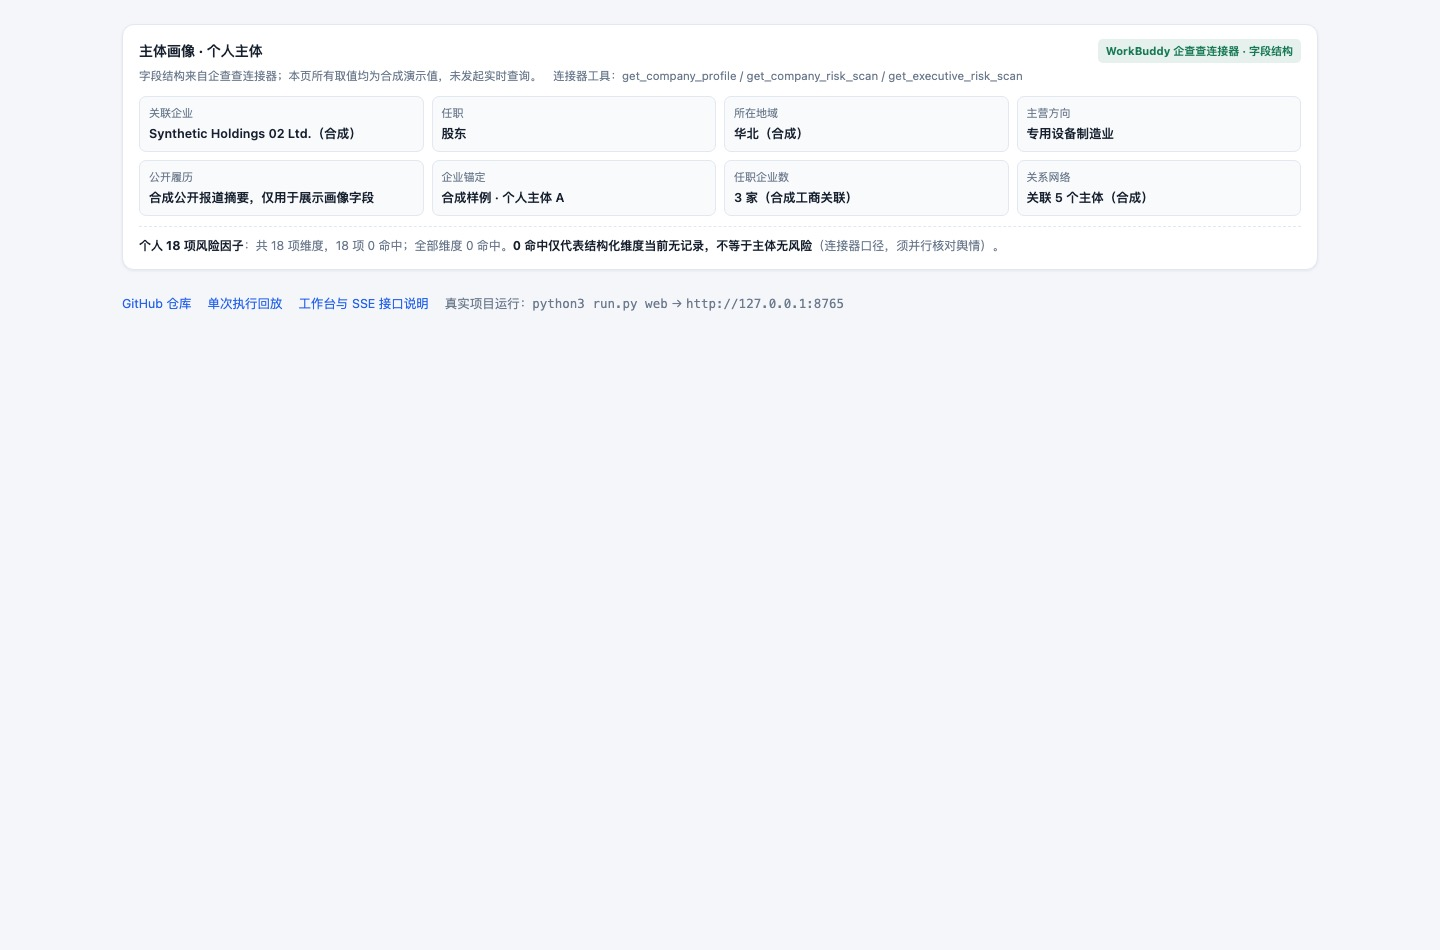
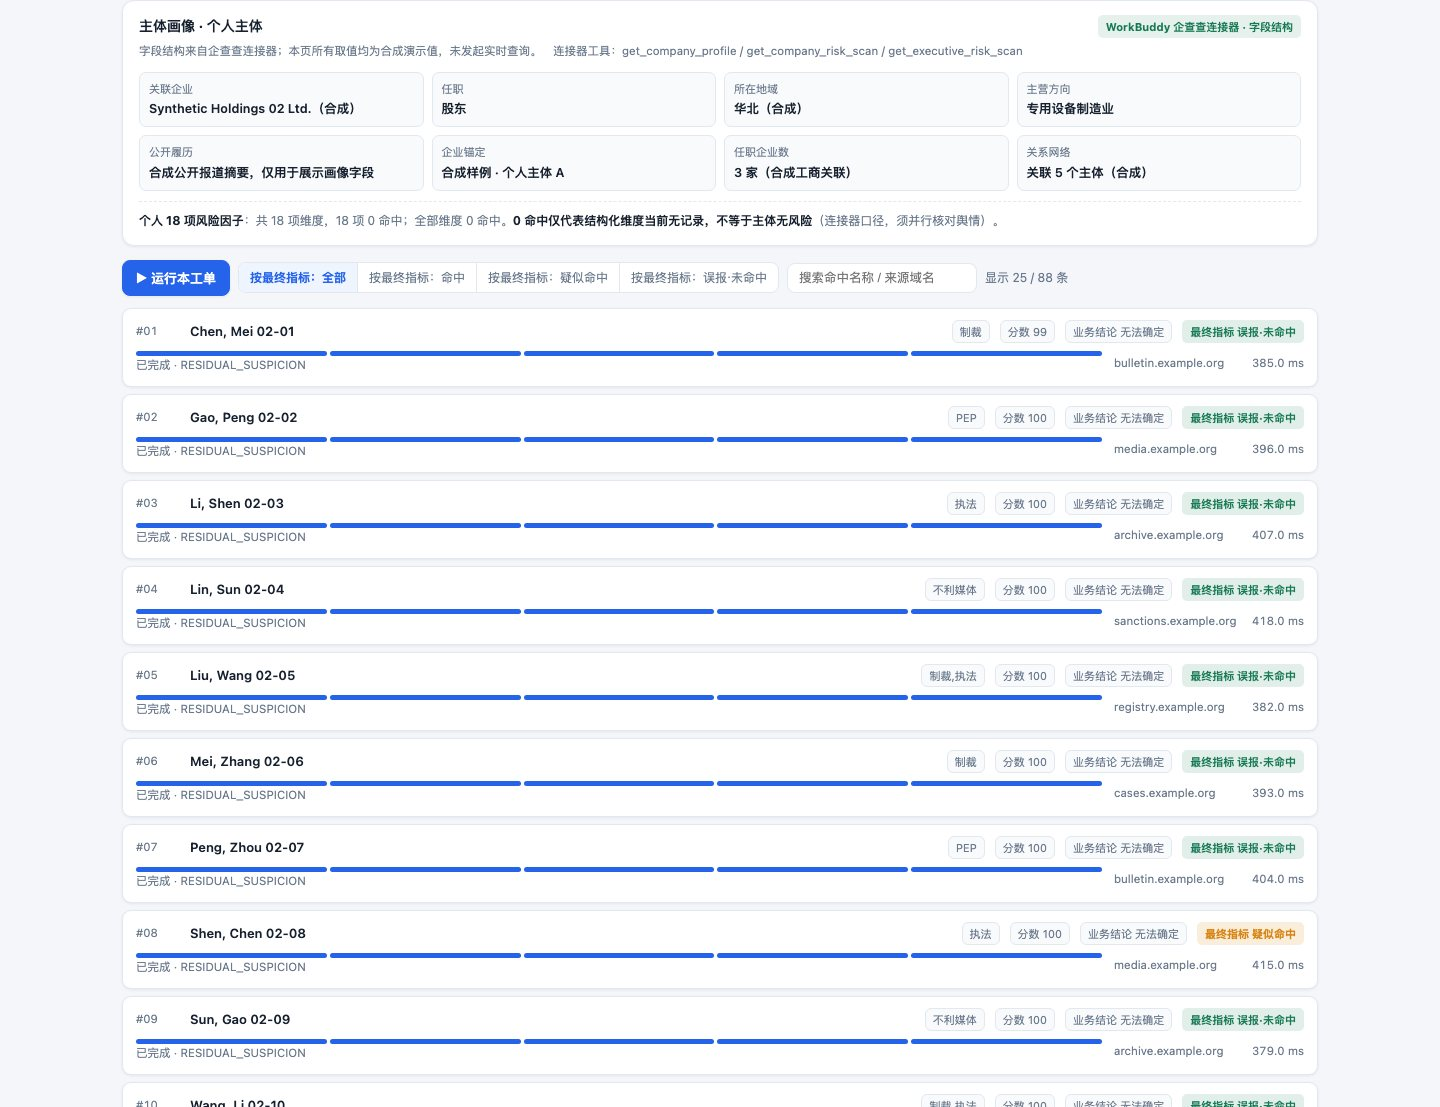
v0.9.7: refresh README screenshots from the plain-language demo, add hit-explanation asset

diff --git a/README.md b/README.md
@@ -55,6 +55,8 @@ Demo 按评审最关心的层级组织：
 
 排除类命中同样写明「入网侧出生日期 1975-09-04 / 名单侧 1957-05-08 → 明确冲突 → 同名不同主体」，并强调**这不是放行**、命中记录未清除。地址 / 所在地区会变动，**不是硬排除依据**；说「没有任何冲突」之前必须先看比对表里有没有红色冲突行。机器字段统一折叠到「查看技术字段与执行路径（给开发 / 审计看）」。
 
+![单条命中的人话解释：字段比对表、为什么这么判、为什么不是别的结论，技术字段折叠](assets/demo-hit-explanation.jpg)
+
 **大批量命中怎么处理（m 个工单主体一起干、互不干扰）：** 8 个工单主体**同时开始**，每个主体内部把命中切给 **4 个 worker**（共 32 并发），各自走同一套 `Rule Engine → PolicyGuard → Investigation → Disposition` 链路，完成一条就显示一条。整批墙钟由**最慢的那张单**决定（88 条命中单约 8.8 s），既不是把 8 张单的耗时相加，也不是 1 条命中的耗时。
 
 **为什么不是「106 ms 跑完 154 条」？** 这个数量级是**并行后摊到每条的墙钟份额**（15,922 ms ÷ 154 ≈ 103 ms），不是单条命中的实际工作量（约 395 ms），更不是整批完成时间。并发度有限：共享 4-worker 池时 154 条命中至少要 154/4 ≈ 39 轮（约 15.2 s）；8 个主体同时开跑、每单各 4 workers 时受最长单限制约 9.3 s；授权本地实测是逐单运行，累计 15.9 s。只有把 worker 数提到 ≥154 才可能接近单条耗时，那不是当前配置。Demo 把这三种口径并列展示，且用合成值复刻真实量级，不含任何真实业务数据。
